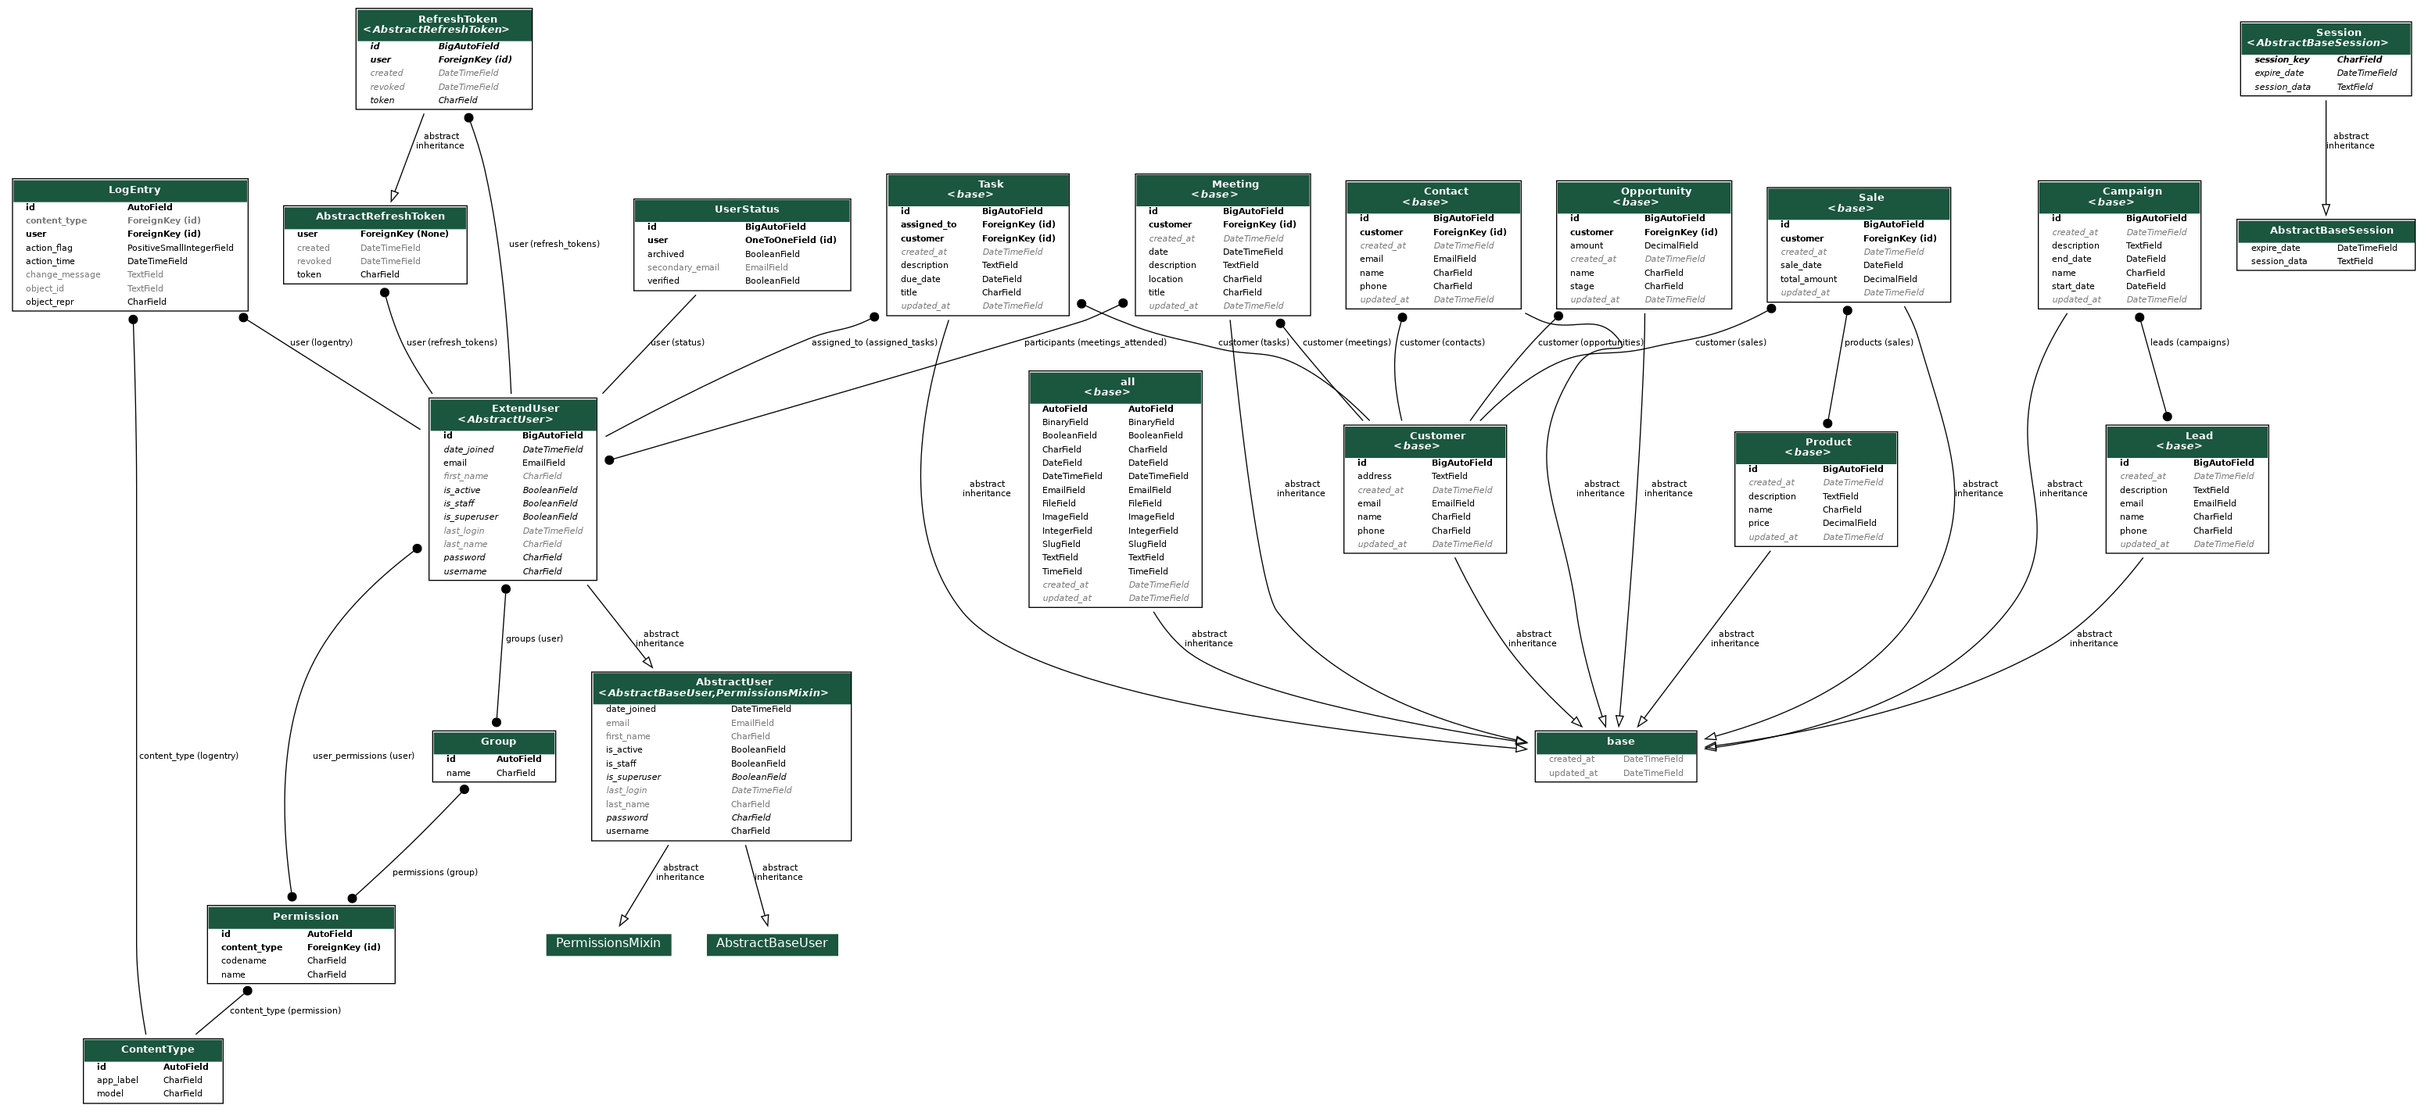
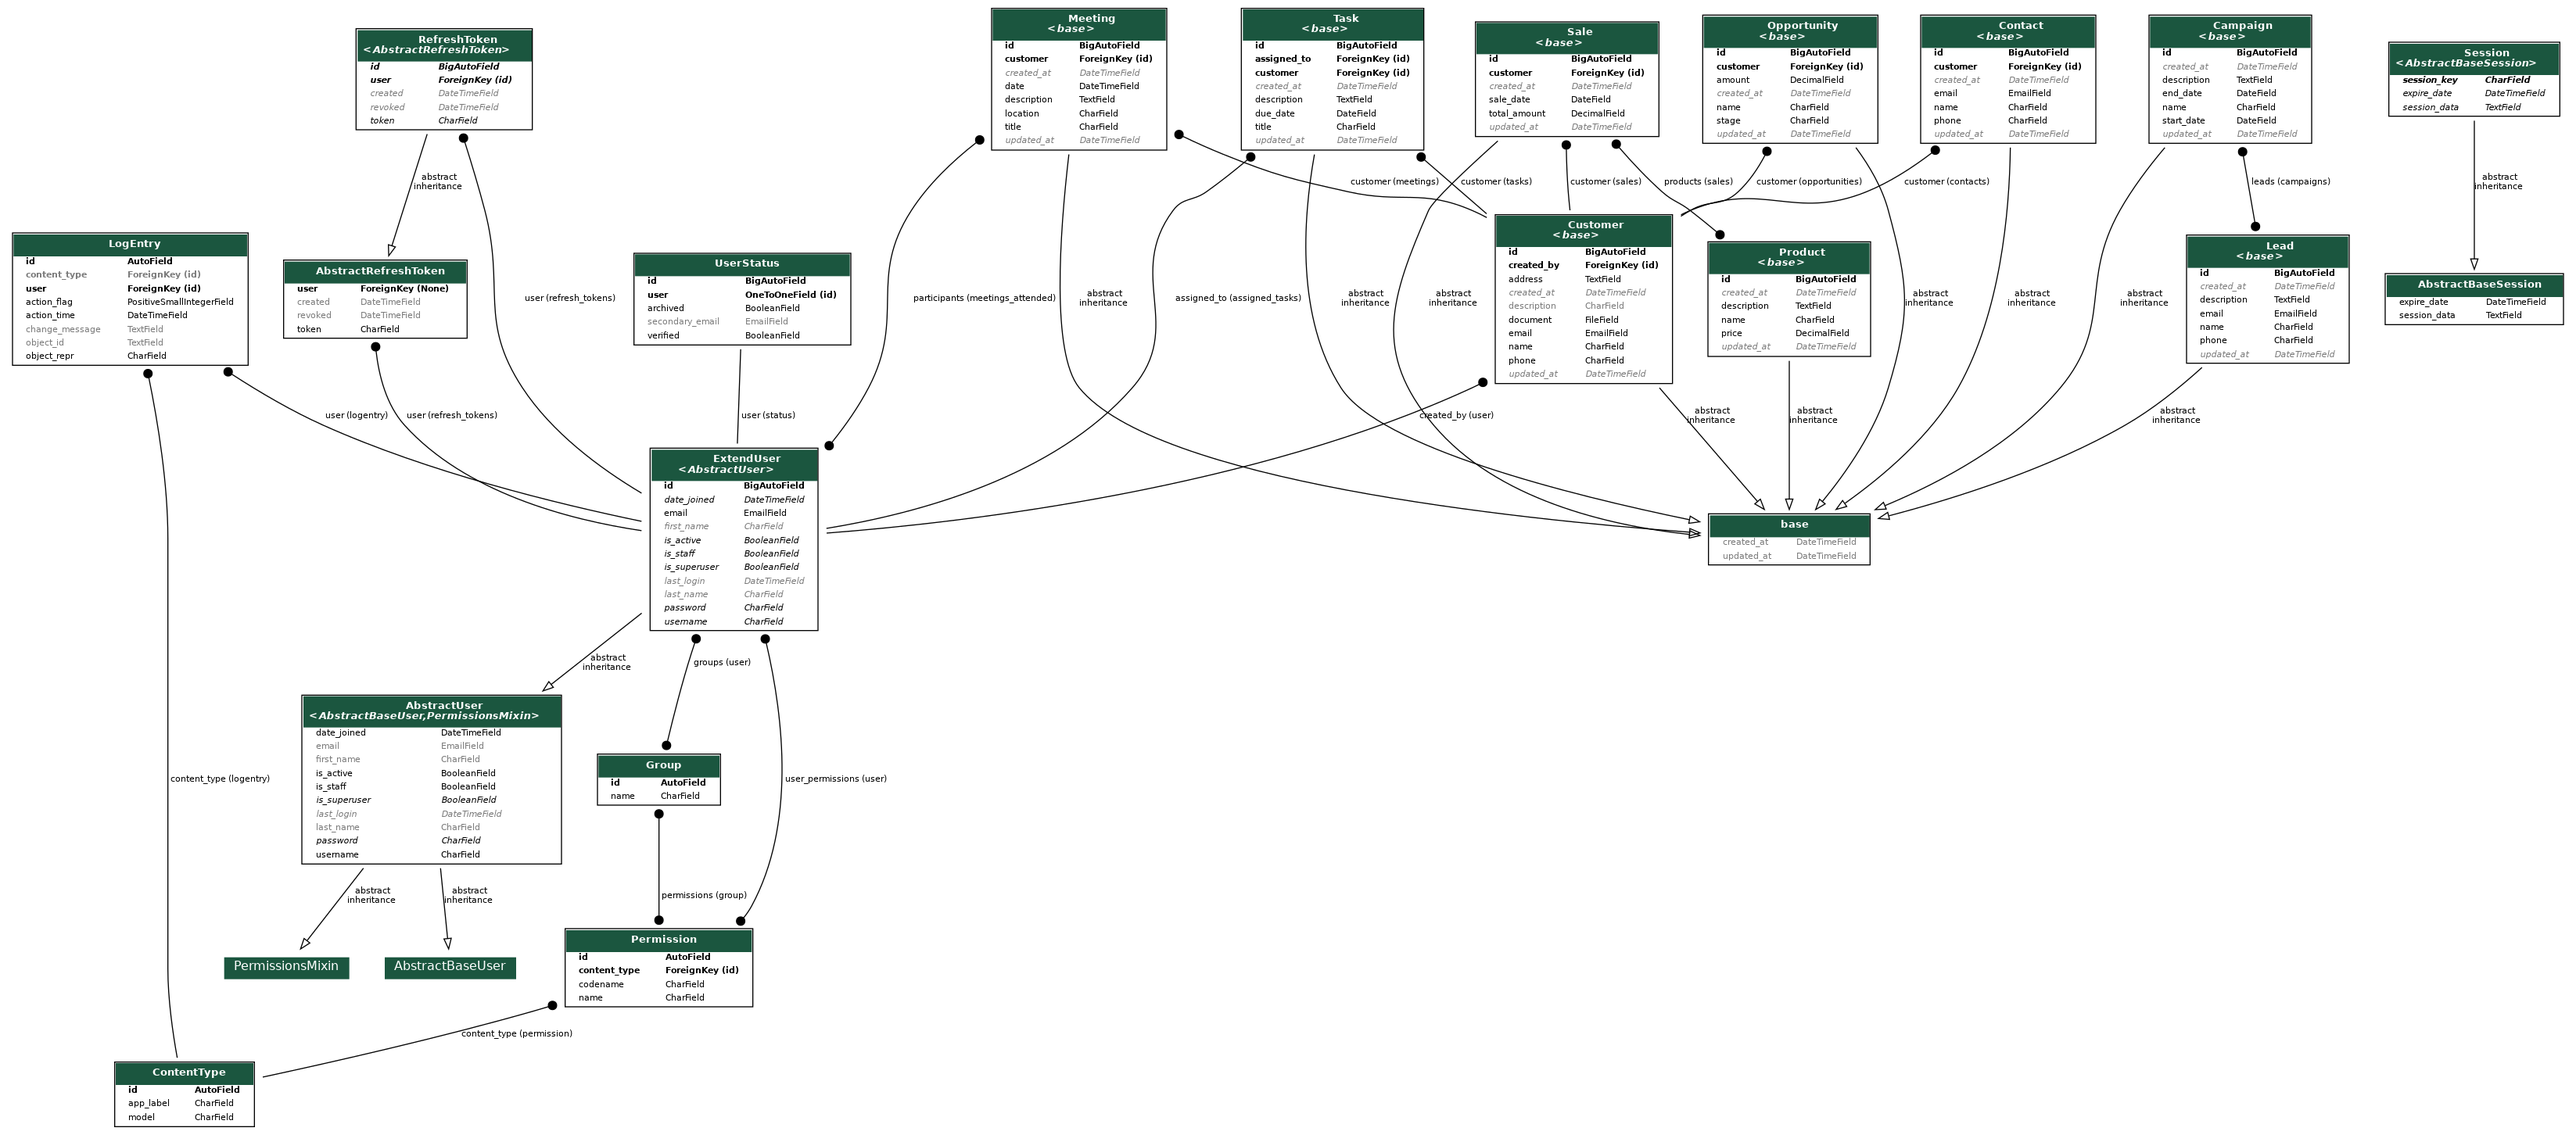
k

diff --git a/core/settings.py b/core/settings.py
@@ -54,13 +54,14 @@ INSTALLED_APPS = [
     'graphql_jwt.refresh_token.apps.RefreshTokenConfig',
     'django_filters',
     "corsheaders",
+    "debug_toolbar",
 
     'apps.base',
     'apps.authentication',
     'apps.crm',
-    'silk',
 ]
 AUTH_USER_MODEL = 'authentication.ExtendUser'
+from graphene_django.debug import DjangoDebugMiddleware
 
 MIDDLEWARE = [
     'django.middleware.security.SecurityMiddleware',
@@ -71,8 +72,12 @@ MIDDLEWARE = [
     'django.contrib.messages.middleware.MessageMiddleware',
     'django.middleware.clickjacking.XFrameOptionsMiddleware',
     "corsheaders.middleware.CorsMiddleware",
+     #'graphene_django.debug.DjangoDebugMiddleware',  Add this before DebugToolbarMiddleware
+    "debug_toolbar.middleware.DebugToolbarMiddleware",
 
-    'silk.middleware.SilkyMiddleware',
+
+    'myapp.custom_header_middleware.CustomHeaderMiddleware', 
+ 
 ]
 
 ROOT_URLCONF = 'core.urls'
@@ -254,5 +259,8 @@ GRAPHQL_AUTH_LOGIN_REQUIRED_ERROR_MESSAGE = "Authentication required to access t
 MEDIA_URL = '/media/'  # URL prefix for media files
 MEDIA_ROOT = os.path.join(BASE_DIR, 'media')  # Absolute filesystem path to the directory that will hold user-uploaded files.
 
-
-SILKY_PYTHON_PROFILER = True
+INTERNAL_IPS = [
+    # ...
+    "127.0.0.1",
+    # ...
+]

diff --git a/apps/crm/schemas/customer.py b/apps/crm/schemas/customer.py
@@ -7,6 +7,7 @@ from graphene import relay
 from django.db import models
 from apps.base.models import base
 from django import forms
+from apps.authentication.models import ExtendUser as User
 
 
 class Customer(base):
@@ -14,6 +15,7 @@ class Customer(base):
     email = models.EmailField(null=False, blank=False)
     phone = models.CharField(max_length=20)
     address = models.TextField()
+    created_by = models.ForeignKey(User, on_delete=models.SET_NULL, related_name='user', null=True)
 
     document = models.FileField(upload_to='crm/')
     description = models.CharField(max_length=255, blank=True)
@@ -89,10 +91,14 @@ class InsertCustomer(graphene.Mutation):
         address= graphene.String()
     customer = graphene.Field(CustomerType)
     
-    @email_duplicate(Customer)
+    @email_duplicate(Customer) # must authenticate to save user
     @required_fields('name', 'email')
     def mutate(self, info, **kwargs):
         customer = Customer(**kwargs)
+        user = User.objects.get(username=str(info.context.user))
+        setattr(customer, "created_by", user)  
+        """"""
+       
         customer.save()      
         return InsertCustomer(customer=customer)
 

diff --git a/apps/crm/signals/customer.py b/apps/crm/signals/customer.py
@@ -1,0 +1,33 @@
+# models.py
+
+from django.db.models.signals import pre_save, post_save
+from django.dispatch import receiver
+from apps.crm.schemas.customer import Customer
+
+@receiver(pre_save, sender=Customer)
+def customer_pre_save(sender, instance, **kwargs):
+    if instance.pk:
+        # Get the original instance from the database
+        original_instance = sender.objects.get(pk=instance.pk)
+        changes = []
+        for field in Customer._meta.get_fields():   
+            old = getattr(original_instance, field.name)
+            new = getattr(instance, field.name)
+            if old != new:
+                  setattr(instance, field.name, new)
+                  changes.append(f"'{field.name}' changed from '{old}' to '{new}'")
+
+
+        if changes:
+            # Log the changes
+            for change in changes:
+                print(change)
+
+
+@receiver(post_save, sender=Customer)
+def customer_post_save(sender, instance, created, **kwargs):
+    #if created:
+        print('we have updated customer')
+        #instance_after_save = sender.objects.get(pk=instance.pk)
+        print(sender)
+        print(instance.email)

diff --git a/apps/crm/migrations/0002_customer_created_by_alter_customer_document.py b/apps/crm/migrations/0002_customer_created_by_alter_customer_document.py
@@ -1,0 +1,26 @@
+# Generated by Django 4.2.4 on 2023-08-10 16:37
+
+from django.conf import settings
+from django.db import migrations, models
+import django.db.models.deletion
+
+
+class Migration(migrations.Migration):
+
+    dependencies = [
+        migrations.swappable_dependency(settings.AUTH_USER_MODEL),
+        ('crm', '0001_initial'),
+    ]
+
+    operations = [
+        migrations.AddField(
+            model_name='customer',
+            name='created_by',
+            field=models.ForeignKey(null=True, on_delete=django.db.models.deletion.SET_NULL, related_name='user', to=settings.AUTH_USER_MODEL),
+        ),
+        migrations.AlterField(
+            model_name='customer',
+            name='document',
+            field=models.FileField(upload_to='crm/'),
+        ),
+    ]

diff --git a/apps/crm/middleware/custom_header_middleware.py b/apps/crm/middleware/custom_header_middleware.py
@@ -1,0 +1,17 @@
+# myapp/custom_header_middleware.py
+
+class CustomHeaderMiddleware:
+    def __init__(self, get_response):
+        self.get_response = get_response
+    
+    def __call__(self, request):
+        response = self.get_response(request)
+        
+        # Check if the request has a custom header
+        custom_header_value = request.META.get('HTTP_X_CUSTOM_HEADER')
+        if custom_header_value:
+            # Add a custom response header
+            response['X-Custom-Response-Header'] = f'Hello from custom middleware! Request header value: {custom_header_value}'
+        
+        return response
+

diff --git a/apps/base/models.py b/apps/base/models.py
@@ -1,4 +1,5 @@
 from django.db import models
+from apps.authentication.models import ExtendUser as User
 
 class base(models.Model):
     created_at = models.DateTimeField(auto_now_add=True)
@@ -7,6 +8,11 @@ class base(models.Model):
     class Meta:
         abstract = True
 
+
+class customer_change(models.Model):
+    change_by = models.ForeignKey(User, on_delete=models.SET_NULL, related_name='change', null=True)
+    model_changed = models.CharField(max_length=20)
+    updated_at = models.DateTimeField(auto_now=True)
 
 """
 class all(base):

diff --git a/core/urls.py b/core/urls.py
@@ -13,9 +13,9 @@ urlpatterns = [
     path('', CustomerListView.as_view(), name='home'),
     path('upload/', CustomerCreateView.as_view(), name='upload'),
     path('download/<int:customer_id>/', download, name='download'),
+ 
 
-    path('silk/', include('silk.urls', namespace='silk')),
-
+    path("__debug__/", include("debug_toolbar.urls")),
     # if using rest api or views 
     #path('authentication/', include('apps.authentication.urls')),
     #path('libreary/', include('apps.libreary.urls')),

diff --git a/apps/authentication/models.py b/apps/authentication/models.py
@@ -1,5 +1,5 @@
 from django.db import models
-from django.contrib.auth.models import User, AbstractUser
+from django.contrib.auth.models import AbstractUser
 
 class ExtendUser(AbstractUser):
     email = models.EmailField(blank=False,max_length=255,verbose_name="email")

diff --git a/apps/crm/apps.py b/apps/crm/apps.py
@@ -8,3 +8,6 @@ class CrmConfig(AppConfig):
     settings.NUMBERS_BOOKS = 5
     settings.LIMIT_CHARS = 200
 
+
+    def ready(self):
+        import apps.crm.signals.customer
